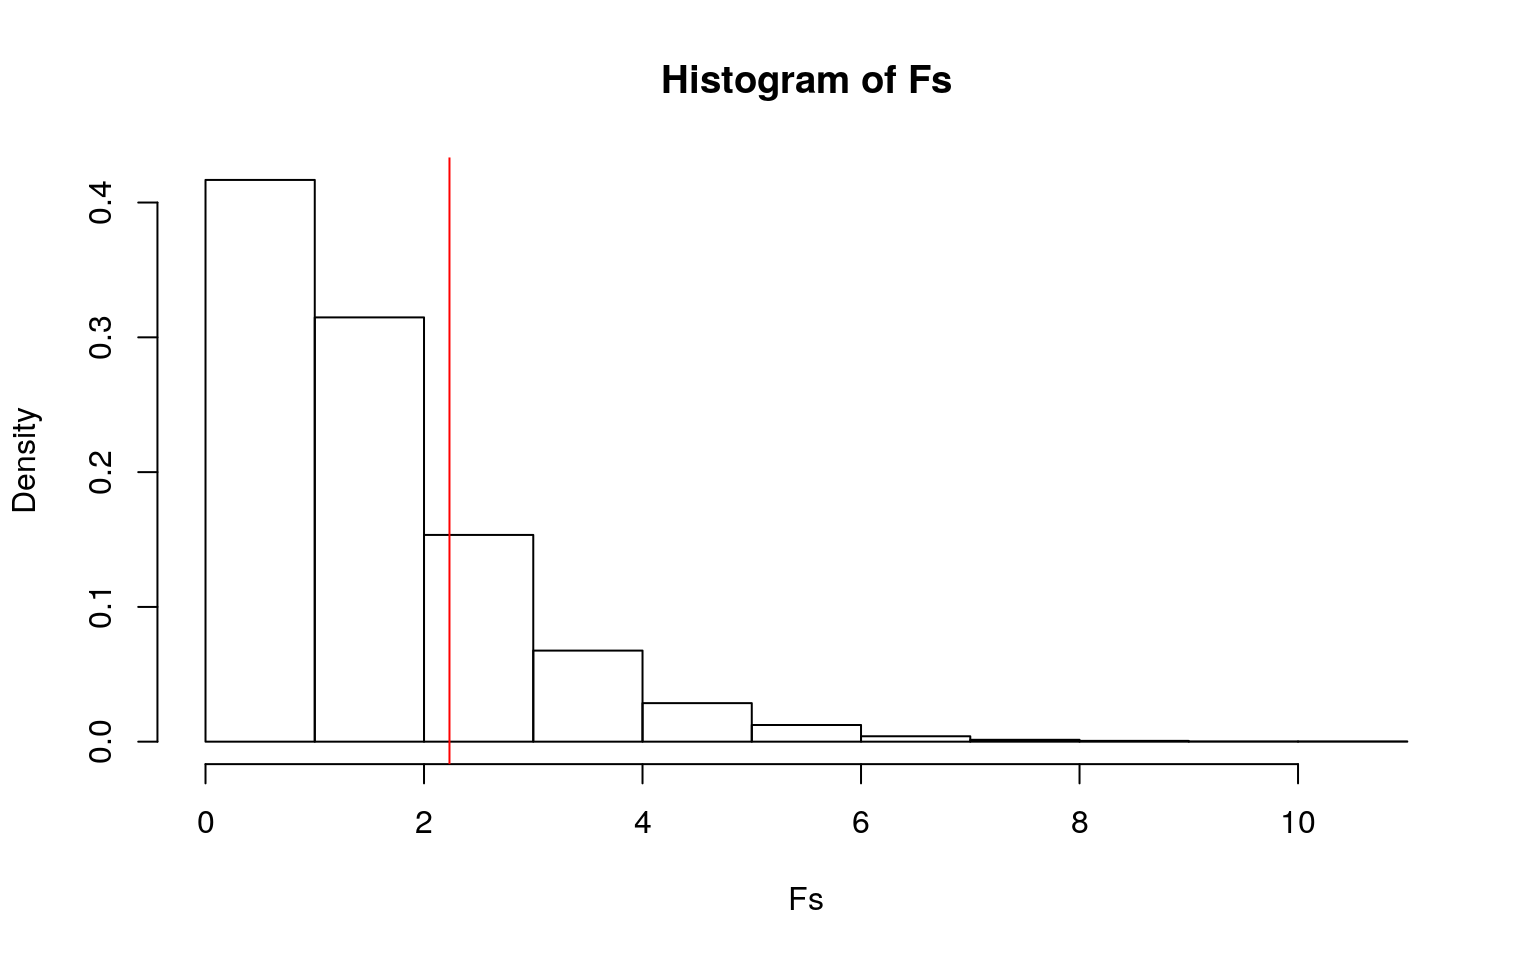
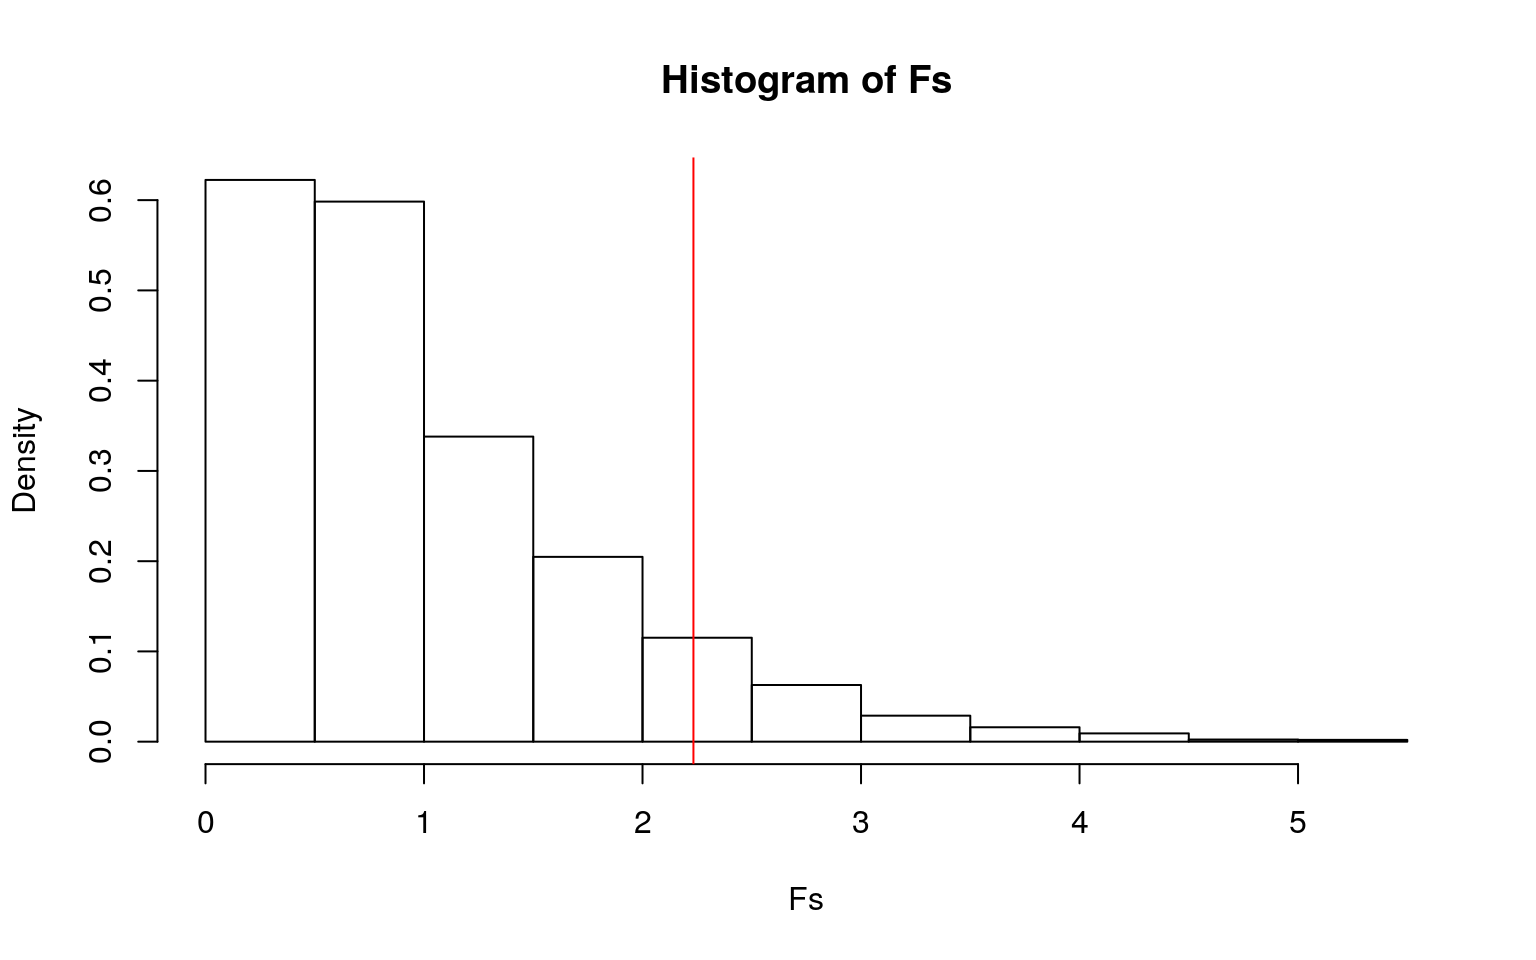
some message

diff --git a/project/project2/index.html b/project/project2/index.html
@@ -130,38 +130,7 @@ summary.aov(man1) </code></pre>
 ##   &lt;fct&gt;       &lt;dbl&gt;        &lt;dbl&gt;          &lt;dbl&gt;
 ## 1 m            50.2        1995.           219.
 ## 2 f            50.9        1995.           208.</code></pre>
-<pre class="r"><code>#t-tests
-pairwise.t.test(tdata$year, tdata$sex, p.adj = &quot;none&quot;)</code></pre>
-<pre><code>## 
-##  Pairwise comparisons using t tests with pooled SD 
-## 
-## data:  tdata$year and tdata$sex 
-## 
-##   m     
-## f 0.0044
-## 
-## P value adjustment method: none</code></pre>
-<pre class="r"><code>pairwise.t.test(tdata$age, tdata$sex, p.adj = &quot;none&quot;)</code></pre>
-<pre><code>## 
-##  Pairwise comparisons using t tests with pooled SD 
-## 
-## data:  tdata$age and tdata$sex 
-## 
-##   m  
-## f 0.4
-## 
-## P value adjustment method: none</code></pre>
-<pre class="r"><code>pairwise.t.test(tdata$futime, tdata$sex, p.adj = &quot;none&quot;)</code></pre>
-<pre><code>## 
-##  Pairwise comparisons using t tests with pooled SD 
-## 
-## data:  tdata$futime and tdata$sex 
-## 
-##   m   
-## f 0.55
-## 
-## P value adjustment method: none</code></pre>
-<p>From the multivariate normality assumptions for each group, the p-values were less than 0.05 for both male and females, meaning that the normality assumptions are not met. A one-way MANOVA was conducted to determine the effect of the sex (male or female) on two dependent variables (entrance year,age, and futime). The one-way MANOVA showed that for at least one DV (age, year, futime), the mean is different for one sex with a p-value of 0.02313. Next, I ran a one-way ANOVA, which showed that for the year they enetered the waiting list, there is a significant difference between the sexes. The mean age of females is 50.86, and for males, it is 50.24. The mean year of enterance for females is 1995.903, and for males is 1995.436.The mean futime for females is 208.23, and for males, it is 219.26. I ran a t-test for year and sex, which resulted in a p-value of 0.0044. However, the t-test for age and sex and for futime and sex were insignificant. For alpha, I used 0.05/5 = 0.01 (1 MANOVA,1 ANOVA, 3 t-test). The t-test between year and sex, MANOVA, ANOVA results are still significant with the adjusted alpha value. The probability of a type-I error is 1-0.95^5 = 0.226219.</p>
+<p>From the multivariate normality assumptions for each group, the p-values were less than 0.05 for both male and females, meaning that the normality assumptions are not met. A one-way MANOVA was conducted to determine the effect of the sex (male or female) on two dependent variables (entrance year,age, and futime). The one-way MANOVA showed that for at least one DV (age, year, futime), the mean is different for one sex with a p-value of 0.02313. Next, I ran a one-way ANOVA, which showed that for the year they enetered the waiting list, there is a significant difference between the sexes. The mean age of females is 50.86, and for males, it is 50.24. The mean year of enterance for females is 1995.903, and for males is 1995.436.The mean futime for females is 208.23, and for males, it is 219.26. For alpha, I used 0.05/2 = 0.025 (1 MANOVA,1 ANOVA). The MANOVA and ANOVA results are still significant with the adjusted alpha value. The probability of a type-I error is 1-0.95^2 = 0.0975.</p>
 </div>
 <div id="randomization-test-f-statistic" class="section level2">
 <h2>Randomization Test (F-statistic)</h2>
@@ -203,14 +172,14 @@ SSW&lt;- new%&gt;%group_by(event)%&gt;%summarize(SSW=sum((age-mean(age))^2))%&gt
 summarize(sum(SSW))%&gt;%pull
 SSB&lt;- new%&gt;%mutate(mean=mean(age))%&gt;%group_by(event)%&gt;%mutate(groupmean=mean(age))%&gt;%
 summarize(SSB=sum((mean-groupmean)^2))%&gt;%summarize(sum(SSB))%&gt;%pull
-(SSB/2)/(SSW/794)
+(SSB/3)/(SSW/793)
 })
 
 mean(Fs&gt;F_obs) </code></pre>
-<pre><code>## [1] 0.2234</code></pre>
+<pre><code>## [1] 0.087</code></pre>
 <pre class="r"><code>hist(Fs,prob = T); abline(v=F_obs, col=&quot;red&quot;, add=T)</code></pre>
 <p><img src="../../project/project2_files/figure-html/unnamed-chunk-3-1.png" width="768" style="display: block; margin: auto;" /> Null hypothesis: The event or the final disposition of the patient does not explain variation in age. Alternate hypothesis: The event or the final disposition of the patient does explain variation in age.</p>
-<p>The observed f-statistic was 2.233. The randomization test revealed a p-value of 0.2166, which means we fail to reject the null hypothesis, so the event or the final disposition of the patient does not explain variation in age. None of the 5000 F-statistics (Fs) generated under the null hypothesis were bigger than the actual F statistic (F_obs) of 2.233.</p>
+<p>The observed f-statistic was 2.233. The randomization test revealed a p-value of 0.0818, which means we fail to reject the null hypothesis, so the event or the final disposition of the patient does not explain variation in age. None of the 5000 F-statistics (Fs) generated under the null hypothesis were bigger than the actual F statistic (F_obs) of 2.233. Specifically, there were 0.0818*5000=409 of the null Fs were bigger than the observed F.</p>
 </div>
 <div id="linear-regression-model" class="section level2">
 <h2>Linear regression model</h2>
@@ -1122,7 +1091,7 @@ coef(fit5)
 ## Estimated SEs
 samp_distn%&gt;%t%&gt;%as.data.frame%&gt;%summarize_all(sd)</code></pre>
 <pre><code>##   (Intercept)     sexm    age_c sexm:age_c
-## 1    13.02049 17.63938 1.608315   1.857863</code></pre>
+## 1    12.78364 17.87177 1.569568   1.823882</code></pre>
 <p>The estimated SEs is 17.99 for sexm, 1.6060 for age, and 1.869 for the interaction between sexm and age_c. Compared to the original SEs and robust SEs, the bootstrap SEs are nearly the same. Each variable decreased very slightly like sexm, which went from SE of 18.28 to 17.99.</p>
 </div>
 <div id="logistic-regression-model" class="section level2">

diff --git a/post/2020/12/07/test-post/index.html b/post/2020/12/07/test-post/index.html
@@ -7,7 +7,7 @@
     <meta name="author" content="Katie Jang" />
     
     <link rel="shortcut icon" type="image/x-icon" href="../../../../../img/favicon.ico">
-    <title>Test Post</title>
+    <title>Python</title>
     <meta name="generator" content="Hugo 0.79.0" />
     <link rel="stylesheet" href="https://maxcdn.bootstrapcdn.com/bootstrap/3.3.7/css/bootstrap.min.css" integrity="sha384-BVYiiSIFeK1dGmJRAkycuHAHRg32OmUcww7on3RYdg4Va+PmSTsz/K68vbdEjh4u" crossorigin="anonymous">
     <link rel="stylesheet" type="text/css" href="../../../../../css/main.css" />
@@ -54,7 +54,7 @@
       <div class="container">
         <div class="blog-post">
           <h3>
-            <strong><a href="../../../../../post/2020/12/07/test-post/">Test Post</a></strong>
+            <strong><a href="../../../../../post/2020/12/07/test-post/">Python</a></strong>
           </h3>
         </div>
  
@@ -75,18 +75,47 @@
 
 
 <center>
-<img src="../../../../../post/2020-12-07-test-post_files/Me.png" style="width:50.0%" />
+<img src="../../../../../post/2020-12-07-test-post_files/python-code-application.jpeg" style="width:80.0%" />
 </center>
-<div id="heading-of-my-post" class="section level1">
-<h1>Heading of my post</h1>
-<p>Content of my post</p>
-<div id="subheading" class="section level2">
-<h2>subheading</h2>
-<p>more content</p>
-<pre class="r"><code>quakes &lt;- quakes</code></pre>
-<pre class="python"><code>r.quakes.mag.mean()</code></pre>
-<pre><code>## 4.6204000000000001</code></pre>
+<div id="intro-to-python" class="section level1">
+<h1>Intro to Python</h1>
+<p>Python can be used as a calculator.</p>
+<pre class="python"><code>3-2</code></pre>
+<pre><code>## 1</code></pre>
+<pre class="python"><code>3.0/2</code></pre>
+<pre><code>## 1.5</code></pre>
+<p>Indexing on Python begins at 0th position.</p>
+<pre class="python"><code>list1=[2,4,10,6,7,8,9,3]</code></pre>
+<p>You can analyze and change the list in multiple ways.</p>
+<pre class="python"><code>list1[3]</code></pre>
+<pre><code>## 6</code></pre>
+<pre class="python"><code>list1.append(9)
+list1</code></pre>
+<pre><code>## [2, 4, 10, 6, 7, 8, 9, 3, 9]</code></pre>
+<pre class="python"><code>list1[3]</code></pre>
+<pre><code>## 6</code></pre>
+<p>Importing Numpy allows access to different functions and use different arrays on Python.</p>
+<pre class="python"><code>import numpy as np 
+x=np.array([10,20,30,40,50])
+x</code></pre>
+<pre><code>## array([10, 20, 30, 40, 50])</code></pre>
+<pre class="python"><code>#shape of the array 
+x.shape</code></pre>
+<pre><code>## (5,)</code></pre>
+<pre class="python"><code>#vectorized arithmetic
+print(x/5+19) </code></pre>
+<pre><code>## [ 21.  23.  25.  27.  29.]</code></pre>
+<p>You can analyze datasets on Python. For example, this code puts out the mean magnitude in the quakes dataset.</p>
 </div>
+<div id="reticulate" class="section level1">
+<h1>Reticulate</h1>
+<p>Reticulate allows you to import Python modules and call their functions directly from R.</p>
+<pre class="r"><code>library(reticulate)
+hi &lt;- &quot;Hello&quot;</code></pre>
+<pre class="python"><code>#you can access R defined objects with r
+hi=&quot;world&quot;
+print(r.hi,hi) </code></pre>
+<pre><code>## Hello world</code></pre>
 </div>
 
             

diff --git a/index.html b/index.html
@@ -53,7 +53,7 @@
       <section id="about">
         <div class="container">
         <div class="avatar">
-          <img class="img-circle" src="./img/Me1.png" width="200" height="200">
+          <img class="img-circle" src="./img/forproject3.PNG" width="200" height="200">
         </div>
         <h3>I'm <strong>Katie Jang</strong>, a student at University of Texas at Austin.</h3>
         <h3></h3>

diff --git a/post/index.html b/post/index.html
@@ -64,7 +64,7 @@
                  </div>
                  <div class="col-sm-8 col-md-8 col-lg-8">
                    <h5 style="text-align: left">
-                    <strong><a href="../post/2020/12/07/test-post/">Test Post</a></strong>
+                    <strong><a href="../post/2020/12/07/test-post/">Python</a></strong>
                   </h5>
                 </div>
               </div>
